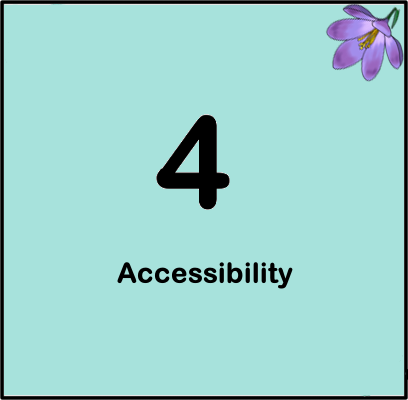
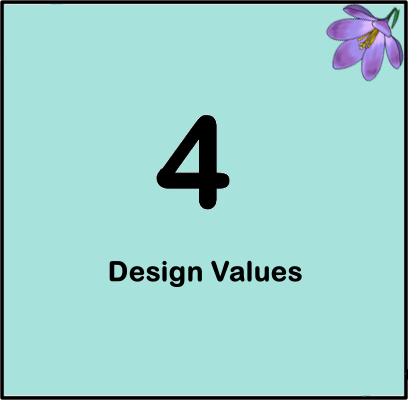
Edited Blog 10

Changed region(s): [[0.2647, 0.63, 0.7353, 0.72]]

diff --git a/blogs/blog12.html b/blogs/blog12.html
@@ -60,8 +60,6 @@
     <button class="blog-container" data-target="blog11.html">Blog 11</button>
         
     <button class="active">Blog 12</button>
-
-    <button class="back-to-top" data-target="#top">Back To Top</button>
 </section>
 
 <article class="h-entry">
@@ -79,57 +77,72 @@
        and it is how I know that I have done well. Getting a distinction would also be great, but I don't want to put that kind of pressure on myself on just the first website.</p>
 
     <h3>Where have I struggled?</h3>
-            <p>I did not struggle with anything when doing Assignment 1. As mentioned before in my Week 1 blog post, I did HTML and a bit of CSS in CAT class in high school so I am 
-               used to the coding and how the tags are used. I just had to apply the theory from the lectures to my website such as semantic markup. Although, I had a bit of trouble 
-               trying to refrain from styling my website because that is not required at the moment. I just want to add colour and nice fonts but I know that there is a process to 
-               everything and I need to perfect the basics before I go into the visual aspect.
-            </p>
+    <p>I did not struggle with anything when doing Assignment 1. As mentioned before in my Week 1 blog post, I did HTML and a bit of CSS in CAT class in high school so I am 
+        used to the coding and how the tags are used. I just had to apply the theory from the lectures to my website such as semantic markup. Although, I had a bit of trouble 
+        trying to refrain from styling my website because that is not required at the moment. I just want to add colour and nice fonts but I know that there is a process to 
+        everything and I need to perfect the basics before I go into the visual aspect.</p>
 
     <h3>What am I proud of?</h3>
-            <p>Firstly I am proud that I remembered HTML even though I last practised it in 2021. It's not a difficult "language" but I'm still proud that I can at least code it 
-               because I found C# really difficult to understand and use. Secondly, I am proud that my website has met all the requirements from the assignment rubric, all I need to 
-               do is edit my blogs, and add more things to my design page now that IxD has been introduced. Lastly, I am proud that I have been able to get my weekly work done on 
-               time. I was able to make time to write my blogs, work on my website, and do the lectures all while having other assignments for my other courses.        
-            </p>
+    <p>Firstly I am proud that I remembered HTML even though I last practised it in 2021. It's not a difficult "language" but I'm still proud that I can at least code it 
+        because I found C# really difficult to understand and use. Secondly, I am proud that my website has met all the requirements from the assignment rubric, all I need to 
+        do is edit my blogs, and add more things to my design page now that IxD has been introduced. Lastly, I am proud that I have been able to get my weekly work done on 
+        time. I was able to make time to write my blogs, work on my website, and do the lectures all while having other assignments for my other courses.</p>
 
-    <h3>What do I want to change going forward?</h3>
-            <p>Going forward, I want to work more on my IxD and Design Pages. This is because these are really important for showing viewers how I came up with my ideas for my website.
-               I also want to do more research and reflections when I write my blogs. This is because it will show that I did not just rely on the lectures and assigned readings but I
-               went above and beyond to make sure that my design decisions are well informed. I also want to re-read readings when I don't understand them or find them difficult to read. 
-               This was especially evident in Week 2 when the Moulthrop reading had a large section about McLuhan's laws of media. I really did not understand that reading and I would 
-               have a difficult time if I were to explain its contents to someone else. Therefore, re-reading would help mitigate this and give me a better understanding the second time 
-               around.
-            </p>
-
-            <h3>Changes I made</h3>
-            <ul>
-               <li class="spacing">Changes I made. On all my Html pages, I had created "Next" and "Back" hyperlinks to go back to the previous and go to the next page. With JavaScript, I 
+    <h3>What have I changed?</h3>
+    <ul>
+        <li class="spacing">Changes I made. On all my Html pages, I had created "Next" and "Back" hyperlinks to go back to the previous and go to the next page. With JavaScript, I 
                replaced those hyperlinks with buttons and gave them functionality. The JS code looks for the name of the button and waits for a click event
                so that when the button is clicked, a new window which is the next/previous page is opened.</li> 
          
-               <li class="spacing">I also added some JavaScript DOM manipulation code to change the inner text of the H1 element of my homepage "Homepage" to the words 
+        <li class="spacing">I also added some JavaScript DOM manipulation code to change the inner text of the H1 element of my homepage "Homepage" to the words 
                "Welcome to my website!" when the button on the top of the page is clicked.</li> 
          
-               <li class="spacing">The Essays, Design, and Portfolio homepages all have images in them to signify the content that is found in the page i.e. the Essays page 
+        <li class="spacing">The Essays, Design, and Portfolio homepages all have images in them to signify the content that is found in the page i.e. the Essays page 
                has an image with the title of my first essay "UI and UX Analysis". For all of these, I added an anchor tag around the image element so that 
                when I click on the image it opens up that section. So using JavaScript, I added some animation to the images so that when I hover over the 
                image, it scales up in size and goes back down when the pointer is away.</li>
          
-               <li class="spacing">To explain these instructions to a user (the fact that they have to click on the image to open the section) I added pop-ups using 
+        <li class="spacing">To explain these instructions to a user (the fact that they have to click on the image to open the section) I added pop-ups using 
                JavaScript. I first  added buttons on the top of each Html page and they are labelled "Read This First" so that the user can click on it 
                first to see the pop-up message. Another change that I made is creating a menu for all my blog posts using the code that we were showed in 
                class for the main website menu.
-            </ul>
+    </ul>
          
-            <h3>How these changes helped me streamline my interaction design</h3>
-            <p>These changes are helping me streamline my IxD through my Informational and Navigational components. I had previously stated that I want my 
-               website to be easy to use and to understand and to achieve this, I mentioned that I wanted to add tooltips and pagination. However, as stated 
-               above, I have instead chosen to create buttons and pop-ups. In general, buttons are a signifier for interaction because they prompt a user to
-               click on them and because mine have the labels "Back" and "Next" the user will know what clicking on them does. Also, with the informational 
-               components (pop-ups) the user will know that the images are not decorative but also require a click to open that section displayed in the 
-               image. All in all, JavaScript helped me make my website feel more real. Before it felt like it was just words and links on a page but now it 
-               feels a bit more structured and website-like which is the feeling that I want my users to get when they are viewing it.</p>        
-    </article>
+    <p>These changes are helping me streamline my IxD through my Informational and Navigational components. I had previously stated that I want my 
+        website to be easy to use and to understand and to achieve this, I mentioned that I wanted to add tooltips and pagination. However, as stated 
+        above, I have instead chosen to create buttons and pop-ups. In general, buttons are a signifier for interaction because they prompt a user to
+        click on them and because mine have the labels "Back" and "Next" the user will know what clicking on them does. Also, with the informational 
+        components (pop-ups) the user will know that the images are not decorative but also require a click to open that section displayed in the 
+        image. All in all, JavaScript helped me make my website feel more real. Before it felt like it was just words and links on a page but now it 
+        feels a bit more structured and website-like which is the feeling that I want my users to get when they are viewing it.</p> 
+
+    <h3>What do I want to change going forward?</h3>
+    <p>Going forward, I want to work more on my IxD and Design Pages. This is because these are really important for showing viewers how I came up with my ideas for my website.
+        I also want to do more research and reflections when I write my blogs. This is because it will show that I did not just rely on the lectures and assigned readings but I
+        went above and beyond to make sure that my design decisions are well informed. I also want to re-read readings when I don't understand them or find them difficult to read. 
+        This was especially evident in Week 2 when the Moulthrop reading had a large section about McLuhan's laws of media. I really did not understand that reading and I would 
+        have a difficult time if I were to explain its contents to someone else. Therefore, re-reading would help mitigate this and give me a better understanding the second time 
+        around.</p>
+
+    <h3>What do I need to be aware of?</h3>
+    <p>The things that I should be aware of in the way I develop websites is Language, Representation, Accessibility, Community Engagement and Collaboration.</p> 
+       
+    <p>I need to be mindful of the language and terminology that I use in my websites because certain words carry colonial connotations or reinforce 
+        cultural biases. I also need to make sure that the websites I create represent people who are different from me. I am a young black woman 
+        with a lean body type and medium toned skin but I want my websites to not just represent people who look like me but also dark skinned 
+        women, plus size women, other people of colour, and queer and trans people. This representation won't just be for the final website but it's
+        also in the people that I work with.</p>
+                   
+    <p>I also need to make sure that my websites are accessible to people from different backgrounds. This includes those with disabilities or 
+        limited access to technology as well as different literacy levels. I could achieve this by making the websites simple, easy to use, and easy 
+        to understand. And, I could add language element in my code that changes my website's content to the user's preferred language. This means 
+        that they won't be limited to reading in English and for screen reader users, I would have to make use of good semantic markup and ARIA 
+        labels etc. so that they are also able to engage with it. Lastly, I would need to involve the communities I am building for in my design 
+        process. This is because, like the Disabled Peoples Organizations say, <q>Nothing about us without us</q>. It would be going against the 
+        concept of decolonialism to build something without having that lived experience or including the people I am building for.</p>         
+        
+        <div class="top-button2"><button class="back-to-top" data-target="#top">Back To Top</button></div>
+        </article>
     </main>
     
     <div class="button-container">

diff --git a/blogs/blog4.html b/blogs/blog4.html
@@ -60,76 +60,63 @@
    <button class="blog-container" data-target="blog11.html">Blog 11</button>
       
    <button class="blog-container" data-target="blog12.html">Blog 12</button>
+
+   <button class="back-to-top" data-target="#top">Back To Top</button>
 </section>
 
     <article class="h-entry">
-    <h2 class="p-name">Accessibility</h2>
+    <h2 class="p-name">Design Values</h2>
     <p>
       by <a class="p-author h-card" href="../portfolio/profile.html" target="_blank">Zandile Gebuza</a> 
       on <time class="dt-published" datetime="2024-03-04">04 March 2024</time>
     </p>
        
-    <p>The things that I should be aware of in the way I develop websites is Language, Representation, Accessibility, Community Engagement and Collaboration.</p> 
-       
-    <p>I need to be mindful of the language and terminology that I use in my websites because certain words carry colonial connotations or reinforce 
-       cultural biases. I also need to make sure that the websites I create represent people who are different from me. I am a young black woman 
-       with a lean body type and medium toned skin but I want my websites to not just represent people who look like me but also dark skinned 
-       women, plus size women, other people of colour, and queer and trans people. This representation won't just be for the final website but it's
-       also in the people that I work with.</p>
+    <p>This week's assigned readings are about Design Values. Below is a reflection of both the readings and how I think they relate to the course work.</p>
+
+    <p><cite>Values at play: design tradeoffs in socially-oriented game design</cite></p>
+    <p>The first reading by Flanagan et. al, talks about designers having to be aware of the ways in which the artefacts they create can <q>embody 
+        political, social, and ethical values</q> (Flanagan et al., 2005, p.751). It starts by stating that many designers struggle to balance their 
+        own values with those of users and society because there hasn't been much practical guidance on how to actually incorporate those values into 
+        the design process. Therefore, they created the RAPUNSEL project and the article outlines its Values At Play as a case study for how others can 
+        carry their own design processes. The Values At Play process starts with Value Sensitive Design then goes to Participatory Design, moves on to 
+        Reflective Practice, then ends with Critical Technical Practice. This process was explained in detail and the reading provided a lot of 
+        definitions but I chose not to include them because they weren't relevant to me. What was relevant was the part where they said, 
+        <blockquote>"The excellence of technologies is judged by the value of privacy, community, freedom from bias, universal usability, autonomy, 
+        informed consent, and trust" (Flanagan et al., 2005, p.751).</blockquote></p> 
         
-    <p>I also need to make sure that my websites are accessible to people from different backgrounds. This includes those with disabilities or 
-       limited access to technology as well as different literacy levels. I could achieve this by making the websites simple, easy to use, and easy 
-       to understand. And, I could add language element in my code that changes my website's content to the user's preferred language. This means 
-       that they won't be limited to reading in English and for screen reader users, I would have to make use of good semantic markup and ARIA 
-       labels etc. so that they are also able to engage with it. Lastly, I would need to involve the communities I am building for in my design 
-       process. This is because, like the Disabled Peoples Organizations say, <q>Nothing about us without us</q>. It would be going against the 
-       concept of decolonialism to build something without having that lived experience or including the people I am building for.</p> 
- 
-    <h3>Colour Blindness</h3>
-    <div class="side-by-side">
-    <img src="blog-images/Achromatopsia - Without colour.png" class="accessibility" alt="A screenshot showing how someone with Achromatopsia sees my website" title="Achromatopsia Version of my Website">
-    <p class="info">Achromatopsia - Without colour</p>
-    </div>
-
-    <div class="side-by-side">
-    <img src="blog-images/Deuteranopia - Green colourblindness.png" class="accessibility" alt="A screenshot showing how someone with Deuteranopia sees my website" title="Deuteranopia Version of my Website">
-    <p class="info">Deuteranopia - Green colourblindness</p>
-    </div>
-
-    <div class="side-by-side">
-    <img src="blog-images/Protanopia - Red colourblindness.png" class="accessibility" alt="A screenshot showing how someone with Protanopia sees my website" title="Protanopia Version of my Website">
-    <p class="info">Protanopia - Red colourblindness</p>
-    </div>
-
-    <div class="side-by-side">
-    <img src="blog-images/Tritanopia - Blue colourblindness.png" class="accessibility" alt="A screenshot showing how someone with Tritanopia sees my website" title="Tritanopia Version of my Website">
-    <p class="info">Tritanopia - Blue colourblindness</p>
-    </div>
-
-    <h3>Screen Readers</h3>
-    <div class="side-by-side">
-    <img src="blog-images/Visual ARIA 1.png" class="accessibility" alt="A screenshot showing how a sreen reader engages with my website" title="ARIA Labels">
-    <p class="info">Explanation</p>
-    </div>
-
-    <div class="side-by-side">
-    <img src="blog-images/Visual ARIA 2.png" class="accessibility" alt="A 2nd screenshot showing how a sreen reader engages with my website" title="ARIA Labels">
-    <p class="info">Explanation</p>
-    </div>
-
-    <div class="side-by-side">
-    <img src="blog-images/Visual ARIA 3.png" class="accessibility" alt="A 3rd screenshot showing how a sreen reader engages with my website" title="ARIA Labels">
-    <p class="info">Explanation</p>
-    </div>
+    <p>These concepts are important for web development. Websites have to value the privacy of users and they should ask for consent when collecting 
+       the user's information. Websites should be developed by a diverse community of people because that makes the websites well-designed, functional, 
+       accessible, and ethical. Websites should not be baised or be in favour of some users but not others. In general, websites should have universal 
+       usability. They should cater to different kinds of users, people living with disabilities, people who only have mobile devices, people who have 
+       limited data etc. If I were a Game Design student, the VAP principles might have been helpful but in terms of web dev, this is what I found to be 
+       useful from this reading.</p><br>
+        
+    <p><cite>A game design methodology to incorporate social activist themes</cite></p>
+    <p>The second reading by Flanagan and Nissenbaum is basically a continuation or extension of the ideas discussed in the previous one. Flanagan 
+        and Nissenbaum talk about the design practices of Values at Play which is a guide for the process of making games. They also talk about 
+        developing tested methods that include activist social themes in game design. And this is done by them exploring the different ways that 
+        games can educate and promote activism, focusing on themes from RAPUNSEL, which is catered towards young women (Flanagan and Nissenbaum, 
+        2007). Like the first one, I struggled a bit to find a link between this reading and our work in IM. However, this next quote was a bit helpful: 
+        <blockquote>"Implementation is the heart of design, wherein the central concern is transforming, or 'translating' ideas, intentions, 
+        requirements and concepts into concrete design specifications and to lines of code in a program" (Flanagan and Nissenbaum, 2007, p.185).
+       </blockquote></p> 
        
-    <div class="references">
-      <h3>References</h3>
-      <ul>
-      <li>WhatSock. (2024). <cite>WhatSock/visual-aria</cite>. [online] GitHub. Available at: <a href="https://github.com/WhatSock/visual-aria" target="_blank">https://github.com/WhatSock/visual-aria</a>. [Accessed 18 Jun. 2024].</li>
-      <li>Badia, A.(2024). <cite>Agathebadia/colorblind-extension</cite>. [online] GitHub. Available at: <a href="https://github.com/Agathebadia/colorblind-extension" target="_blank">https://github.com/Agathebadia/colorblind-extension</a>. [Accessed 18 Jun. 2024].</li>
-     </ul>
-
-     <div class="top-button"><button class="back-to-top" data-target="#top">Back To Top</button></div>
+    <p>This quote is referring to design in a general sense so it's easy to connect it to web development. It basically states, for 
+        instance, that after planning out my website through the IxD process, wireframes, style-guide etc. I would need to implement that planning 
+        into the code that I write. For example, I would use HTML to replicate how I planned layouts with wireframes. And, If I planned for my pages
+        to be red, I would style them in CSS to appear as red. Also, If I wanted my images to move across the screen, I would animate them using JS.</p>
+        <br><br><br><br>
+   
+<div class="references">
+    <h3>References</h3>
+    <ul>
+    <li class="list-item">Flanagan, M. Howe, D.C. and Nissenbaum, H. (2005). <cite>‘Values at play: design tradeoffs in socially-oriented game design’</cite>. 
+        in Proceedings of the SIGCHI Conference on Human Factors in Computing Systems. CHI05: CHI 2005 Conference on Human Factors in Computing 
+        Systems, Portland Oregon USA: ACM, pp. 751–760.</li>
+    
+    <li class="list-item">Flanagan, M. and Nissenbaum, H. (2007). <cite>‘A game design methodology to incorporate social activist themes’</cite>. in Proceedings 
+        of the SIGCHI Conference on Human Factors in Computing Systems. CHI07: CHI Conference on Human Factors in Computing Systems, San Jose 
+        California USA: ACM, pp. 181–190.</li>
     </div>
    </article>
    </main>

diff --git a/blogs/blog10.html b/blogs/blog10.html
@@ -69,7 +69,6 @@
         on <time class="dt-published" datetime="2024-04-">06 May 2024</time>
     </p>
 
-    <h3>The benefits and challenges of responsive design</h3>
     <p>According to WebFX, these are the benefits of responsive design:</p>
     <ul>
         <li>Cost effectiveness</li>
@@ -90,56 +89,61 @@
 
     <p>I believe that because not everyone has a desktop so it's important to design websites so that they can be viewed from mobile devices. 
        Accessibility is not about building for people living with disabilities but it is about making sure that you reach the widest audience 
-       possible.</p>
+       possible. Below are some of the things that I have done to make my website resonsive and accessible.</p>
+
+       <h3>Layout of the website</h3>
+       <p>Take screenshots of the responsive layouts of the website</p>
+
+       <h3>Colour Blindness</h3>
+       <div class="side-by-side">
+       <img src="blog-images/Achromatopsia - Without colour.png" class="accessibility" alt="A screenshot showing how someone with Achromatopsia sees my website" title="Achromatopsia Version of my Website">
+       <p class="info">Achromatopsia - Without colour</p>
+       </div>
    
-    <h3>Reflection on the assigned readings</h3>
-    <p><cite>Values at play: design tradeoffs in socially-oriented game design</cite></p>
-    <p>The first reading by Flanagan et. al, talks about designers having to be aware of the ways in which the artefacts they create can <q>embody 
-        political, social, and ethical values</q> (Flanagan et al., 2005, p.751). It starts by stating that many designers struggle to balance their 
-        own values with those of users and society because there hasn't been much practical guidance on how to actually incorporate those values 
-        into the design process. Therefore, they created the RAPUNSEL project and the article outline its Values At Play as case study for how 
-        others can carry their own design processes. The Value At Play process starts with Value Sensitive Design then goes to Participatory Design, 
-        moves on to Reflective Practice, then ends with Critical Technical Practice. This process was explained in detail and the reading provided a 
-        lot of definitions but I chose not to include them because they weren't relevant to me.</p>
-        
-    <p>What was relevant was the part where they said, <blockquote>"The excellence of technologies is judged by the value of privacy, community, 
-        freedom from bias, universal usability, autonomy, informed consent, and trust" (Flanagan et al., 2005, p.751).</blockquote> These concepts 
-        are important for web development. Websites have to value the privacy of users and they should ask for consent when collecting the user's 
-        information. Websites should be developed by a diverse community of people because that makes the websites well-designed, functional, 
-        accessible, and ethical. Websites should not be baised or be in favour of some users but not others. In general, websites should have 
-        universal usability. They should cater to different kinds of users, people living with disabilities, people who only have mobile devices, 
-        people who have limited data etc. If I were taking Game Design the VAP principles might have been helpful but in terms of web dev, this is 
-        what I found to be useful from the reading.</p>
-        
-    <p><cite>A game design methodology to incorporate social activist themes</cite></p>
-    <p>The second reading by Flanagan and Nissenbaum is basically a continuation or extension of the ideas discussed in the previous one. Flanagan 
-        and Nissenbaum talk about the design practices of Values at Play which is a guide for the process of making games. They also talk about 
-        developing tested methods that include activist social themes in game design. And this is done by them exploring the different ways that 
-        games can educate and promote activism, focusing on themes from RAPUNSEL, which is catered towards young women (Flanagan and Nissenbaum, 
-        2007).</p>
-       
-    <p>Like the first one, I struggled a bit to find a link between this reading and our work in IM. However, this next quote was a bit helpful. 
-        <blockquote>"Implementation is the heart of design, wherein the central concern is transforming, or 'translating' ideas, intentions, 
-        requirements and concepts into concrete design specifications and to lines of code in a program" (Flanagan and Nissenbaum, 2007, p.185).
-       </blockquote> This quote is referring to design in a general sense so it's easy to connect it to web development. It basically states, for 
-        instance, that after planning out my website through the IxD process, wireframes, style-guide etc. I would need to implement that planning 
-        into the code that I write. If I planned for my page to be red, I will style it in CSS to appear as red. If I want my images to move across 
-        the screen, I will animate them using JS. And, I will use Html to replicate how I planned layouts with wireframes.</p>
+       <div class="side-by-side">
+       <img src="blog-images/Deuteranopia - Green colourblindness.png" class="accessibility" alt="A screenshot showing how someone with Deuteranopia sees my website" title="Deuteranopia Version of my Website">
+       <p class="info">Deuteranopia - Green colourblindness</p>
+       </div>
    
-<div class="references">
-    <h3>References</h3>
-    <ul>
-    <li>Flanagan, M. Howe, D.C. and Nissenbaum, H. (2005). <cite>‘Values at play: design tradeoffs in socially-oriented game design’</cite>. 
-        in Proceedings of the SIGCHI Conference on Human Factors in Computing Systems. CHI05: CHI 2005 Conference on Human Factors in Computing 
-        Systems, Portland Oregon USA: ACM, pp. 751–760.</li>
-    
-    <li>Flanagan, M. and Nissenbaum, H. (2007). <cite>‘A game design methodology to incorporate social activist themes’</cite>. in Proceedings 
-        of the SIGCHI Conference on Human Factors in Computing Systems. CHI07: CHI Conference on Human Factors in Computing Systems, San Jose 
-        California USA: ACM, pp. 181–190.</li>
-    
-    <li>WebFX. (n.d.). <cite>Why is Responsive Design So Important?</cite> [online] Available at: <a href=
-        "https://www.webfx.com/web-design/learn/why-responsive-design-important/" target="_blank">
-         https://www.webfx.com/web-design/learn/why-responsive-design-important/</a>.</li>
+       <div class="side-by-side">
+       <img src="blog-images/Protanopia - Red colourblindness.png" class="accessibility" alt="A screenshot showing how someone with Protanopia sees my website" title="Protanopia Version of my Website">
+       <p class="info">Protanopia - Red colourblindness</p>
+       </div>
+   
+       <div class="side-by-side">
+       <img src="blog-images/Tritanopia - Blue colourblindness.png" class="accessibility" alt="A screenshot showing how someone with Tritanopia sees my website" title="Tritanopia Version of my Website">
+       <p class="info">Tritanopia - Blue colourblindness</p>
+       </div>
+   
+       <h3>Screen Readers</h3>
+       <div class="side-by-side">
+       <img src="blog-images/Visual ARIA 1.png" class="accessibility" alt="A screenshot showing how a sreen reader engages with my website" title="ARIA Labels">
+       <p class="info">Explanation</p>
+       </div>
+   
+       <div class="side-by-side">
+       <img src="blog-images/Visual ARIA 2.png" class="accessibility" alt="A 2nd screenshot showing how a sreen reader engages with my website" title="ARIA Labels">
+       <p class="info">Explanation</p>
+       </div>
+   
+       <div class="side-by-side">
+       <img src="blog-images/Visual ARIA 3.png" class="accessibility" alt="A 3rd screenshot showing how a sreen reader engages with my website" title="ARIA Labels">
+       <p class="info">Explanation</p>
+       </div>
+          
+       <div class="references">
+       <h3>References</h3>
+       <ul>
+        <li>Badia, A.(2024). <cite>Agathebadia/colorblind-extension</cite>. [online] GitHub. Available at: 
+            <a href="https://github.com/Agathebadia/colorblind-extension" target="_blank">https://github.com/Agathebadia/colorblind-extension</a>. 
+            [Accessed 18 Jun. 2024].</li>
+
+        <li>WebFX. (n.d.). <cite>Why is Responsive Design So Important?</cite> [online] Available at: <a href=
+            "https://www.webfx.com/web-design/learn/why-responsive-design-important/" target="_blank">
+             https://www.webfx.com/web-design/learn/why-responsive-design-important/</a>.</li>
+
+        <li>WhatSock. (2024). <cite>WhatSock/visual-aria</cite>. [online] GitHub. Available at: <a href=
+            "https://github.com/WhatSock/visual-aria" target="_blank">https://github.com/WhatSock/visual-aria</a>. [Accessed 18 Jun. 2024].</li>
     </ul>
 
     <div class="top-button"><button class="back-to-top" data-target="#top">Back To Top</button></div>

diff --git a/blogs/blog11.html b/blogs/blog11.html
@@ -98,7 +98,7 @@
         from discrimination or if there are a thousand articles about inequality, as long as the affected people are unable to be part of these 
         knowledge communities, it is unethical.</p>
 
-    <h3>What are the challenges that we face?</h3>
+    <h3>What are the challenges that we would face?</h3>
     <p>There is a part in the reading where Orgad speaks about <q>The possibilities of establishing the internet as a moral space</q>:
        <ol>
        <li>Proper distance and responsibility</li>
